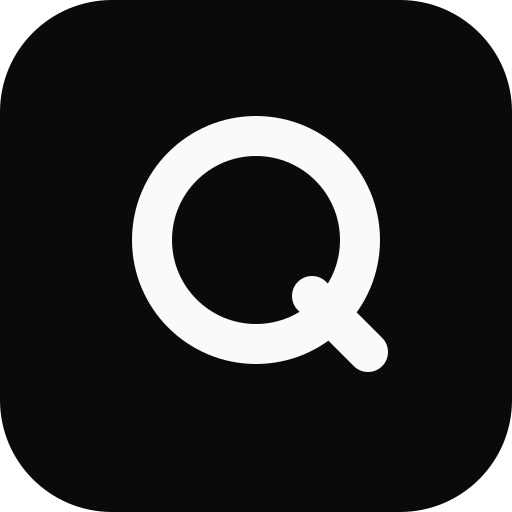
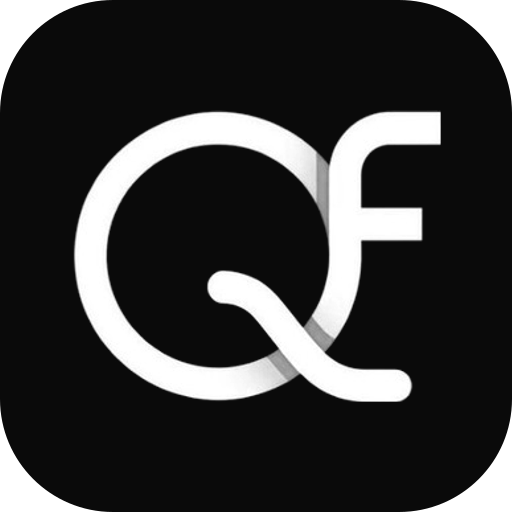
feat(ui): логотип проекта в иконках, фавиконе и шапке
Скрипт иконок читает branding/logo.png, сам находит на картинке знак и надпись по светлым полосам, берёт верхнюю и собирает из неё mark.png с прозрачным фоном, а из него — иконки PWA, фавиконы и apple-touch-icon.

В шапке знак подставлен CSS-маской поверх currentColor, поэтому он чёрный в светлой теме и белый в тёмной. Кеш service worker переименован в forq-v2: старый favicon.svg удалён, и закешированная оболочка должна обновиться.

Changed region(s): [[0.125, 0.2188, 0.875, 0.8125]]

diff --git a/src/routes/+layout.svelte b/src/routes/+layout.svelte
@@ -54,7 +54,11 @@
 
 <header class="app-header">
 	<div class="wrap app-header__inner">
-		<a class="app-header__brand" href={resolve('/')}>ForQ</a>
+		<a class="app-header__brand" href={resolve('/')}>
+			<span class="app-header__mark" style="--mark: url('{asset('mark.png')}')" aria-hidden="true"
+			></span>
+			ForQ
+		</a>
 
 		<nav class="app-header__nav" aria-label="Основная навигация">
 			{#if session.user}
@@ -125,6 +129,21 @@
 
 	.skip:focus-visible {
 		inset-inline-start: 0;
+	}
+
+	.app-header__mark {
+		width: 1.375rem;
+		height: 1.375rem;
+		flex: none;
+		background: currentColor;
+		-webkit-mask-image: var(--mark);
+		mask-image: var(--mark);
+		-webkit-mask-repeat: no-repeat;
+		mask-repeat: no-repeat;
+		-webkit-mask-position: center;
+		mask-position: center;
+		-webkit-mask-size: contain;
+		mask-size: contain;
 	}
 
 	.app-header__bell {

diff --git a/src/app.html b/src/app.html
@@ -2,7 +2,8 @@
 <html lang="ru">
 	<head>
 		<meta charset="utf-8" />
-		<link rel="icon" href="%sveltekit.assets%/favicon.svg" />
+		<link rel="icon" href="%sveltekit.assets%/favicon-32.png" sizes="32x32" type="image/png" />
+		<link rel="icon" href="%sveltekit.assets%/favicon-16.png" sizes="16x16" type="image/png" />
 		<link rel="apple-touch-icon" href="%sveltekit.assets%/apple-touch-icon.png" />
 		<link rel="manifest" href="%sveltekit.assets%/manifest.webmanifest" />
 		<meta name="viewport" content="width=device-width, initial-scale=1, viewport-fit=cover" />

diff --git a/src/app.css b/src/app.css
@@ -273,6 +273,9 @@ code {
 }
 
 .app-header__brand {
+	display: inline-flex;
+	align-items: center;
+	gap: 0.45rem;
 	margin-inline-end: auto;
 	font-weight: 650;
 	letter-spacing: -0.01em;

diff --git a/static/sw.js b/static/sw.js
@@ -1,4 +1,4 @@
-const CACHE = 'forq-v1';
+const CACHE = 'forq-v2';
 const SHELL = './';
 const LIMIT = 150;
 

diff --git a/README.md b/README.md
@@ -131,11 +131,20 @@ static/
   manifest.webmanifest       PWA-манифест
   sw.js                      service worker: сеть вперёд, кеш как запас
   icon-*.png                 иконки, генерируются скриптом
+  favicon-32.png 16.png      фавиконы
+  mark.png                   знак без фона для шапки
+branding/logo.png            исходник логотипа, из него собираются иконки
 supabase/migrations/0001_init.sql
 supabase/migrations/0002_features.sql
 supabase/migrations/0003_counters_and_pins.sql
 netlify.toml                 сборка, переменные окружения и SPA-роутинг для Netlify
 ```
+
+## Бренд
+
+Исходник логотипа — `branding/logo.png`: знак «QF» и подпись «ForQ» на чёрном фоне. `npm run icons` сам находит на картинке две светлые полосы (знак и надпись), берёт верхнюю, строит из неё `static/mark.png` с прозрачным фоном и уже из него собирает иконки PWA, фавиконы и `apple-touch-icon`. Ничего не нужно вырезать руками: достаточно положить новый файл на место старого и перезапустить команду.
+
+Знак в шапке — тот же `mark.png`, но подставленный как CSS-маска поверх `currentColor`, поэтому он белый в тёмной теме и чёрный в светлой. Фон исходной картинки при этом не виден.
 
 ## Разметка текста
 
@@ -230,7 +239,7 @@ npm run dev      # дев-сервер
 npm run build    # сборка в build/
 npm run preview  # предпросмотр сборки
 npm run check    # svelte-kit sync + svelte-check
-npm run icons    # перегенерировать PNG-иконки из кода в scripts/icons.mjs
+npm run icons    # перегенерировать PNG-иконки из branding/logo.png
 ```
 
 ## Что не сделано

diff --git a/AGENTS.md b/AGENTS.md
@@ -10,7 +10,7 @@ SvelteKit 3 + Svelte 5 (руны), TypeScript, Vite 8. SPA через `@sveltejs
 - `npm run build` — сборка в `build/`
 - `npm run check` — `svelte-kit sync` + `svelte-check`; запускать перед сдачей
 - `npm run preview` — предпросмотр сборки
-- `npm run icons` — перегенерировать PNG-иконки PWA из `scripts/icons.mjs` (нужен dev-зависимость `sharp`)
+- `npm run icons` — перегенерировать PNG-иконки, фавиконы и знак для шапки из `branding/logo.png` (нужен dev-зависимость `sharp`)
 
 ## Что важно знать про SvelteKit 3
 
